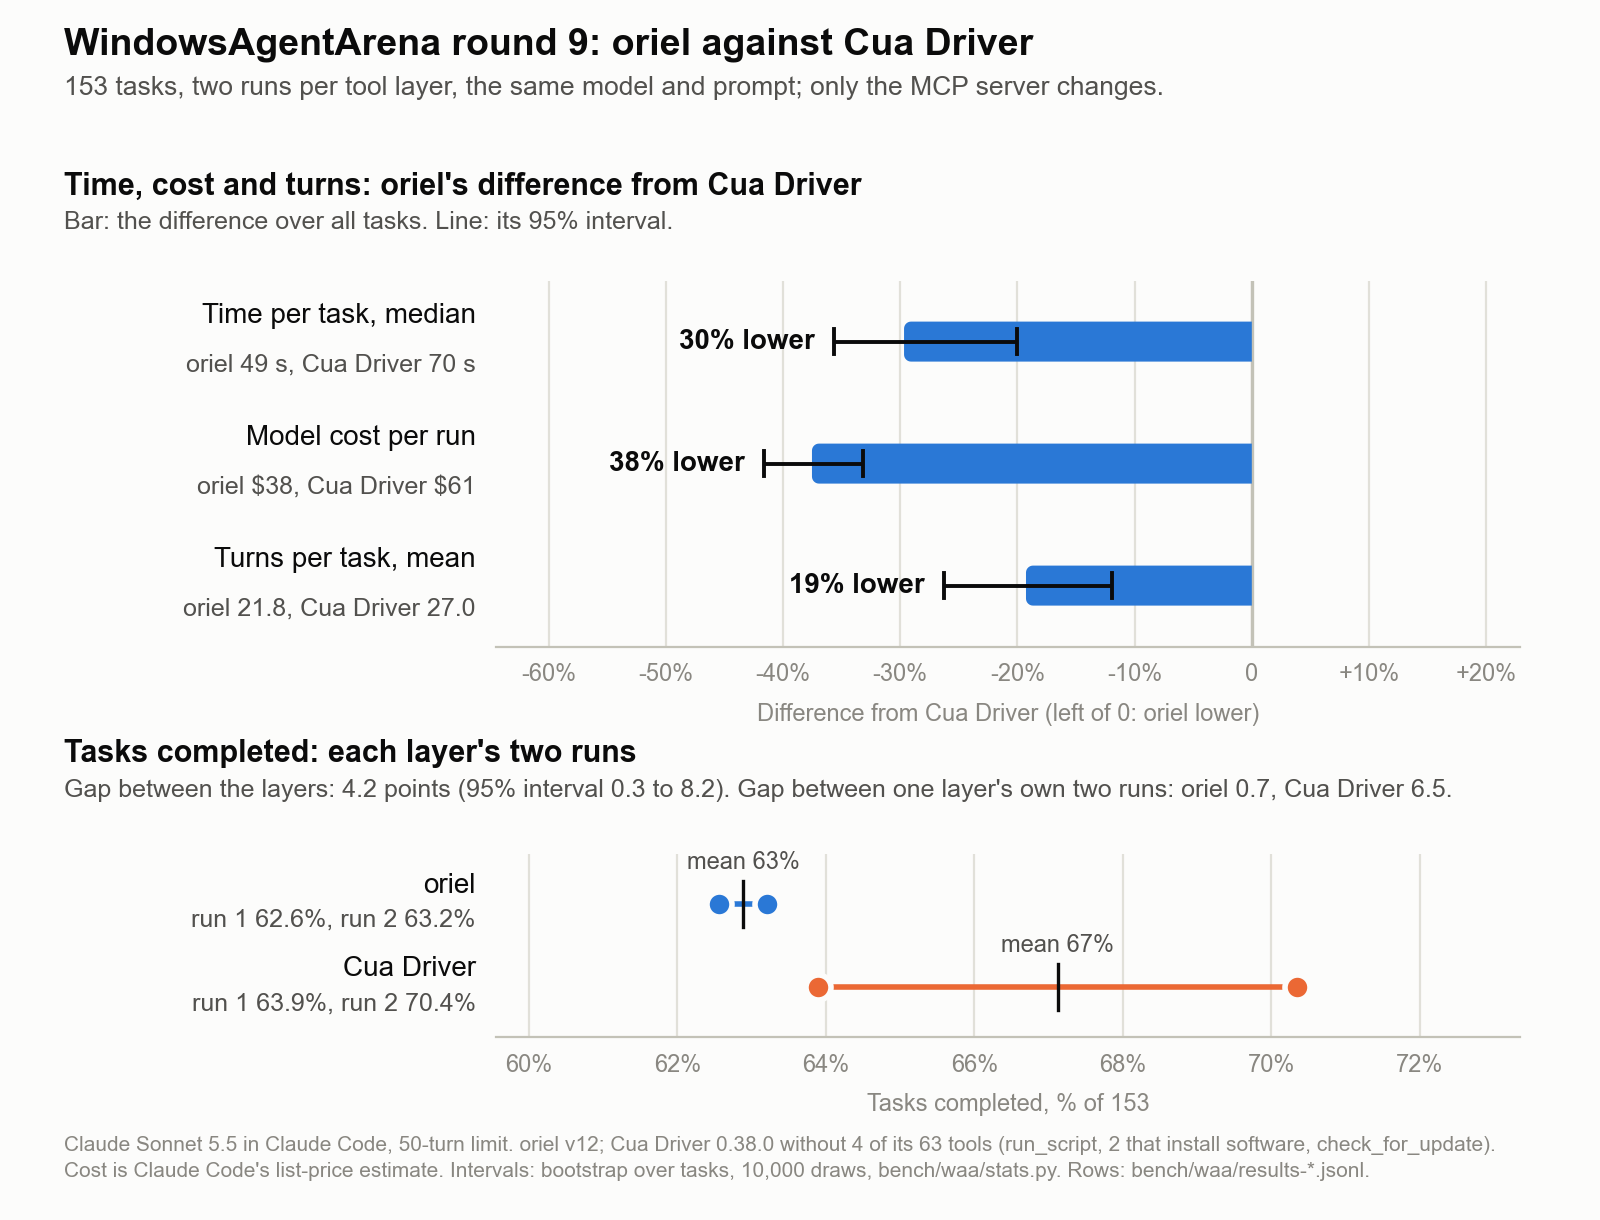
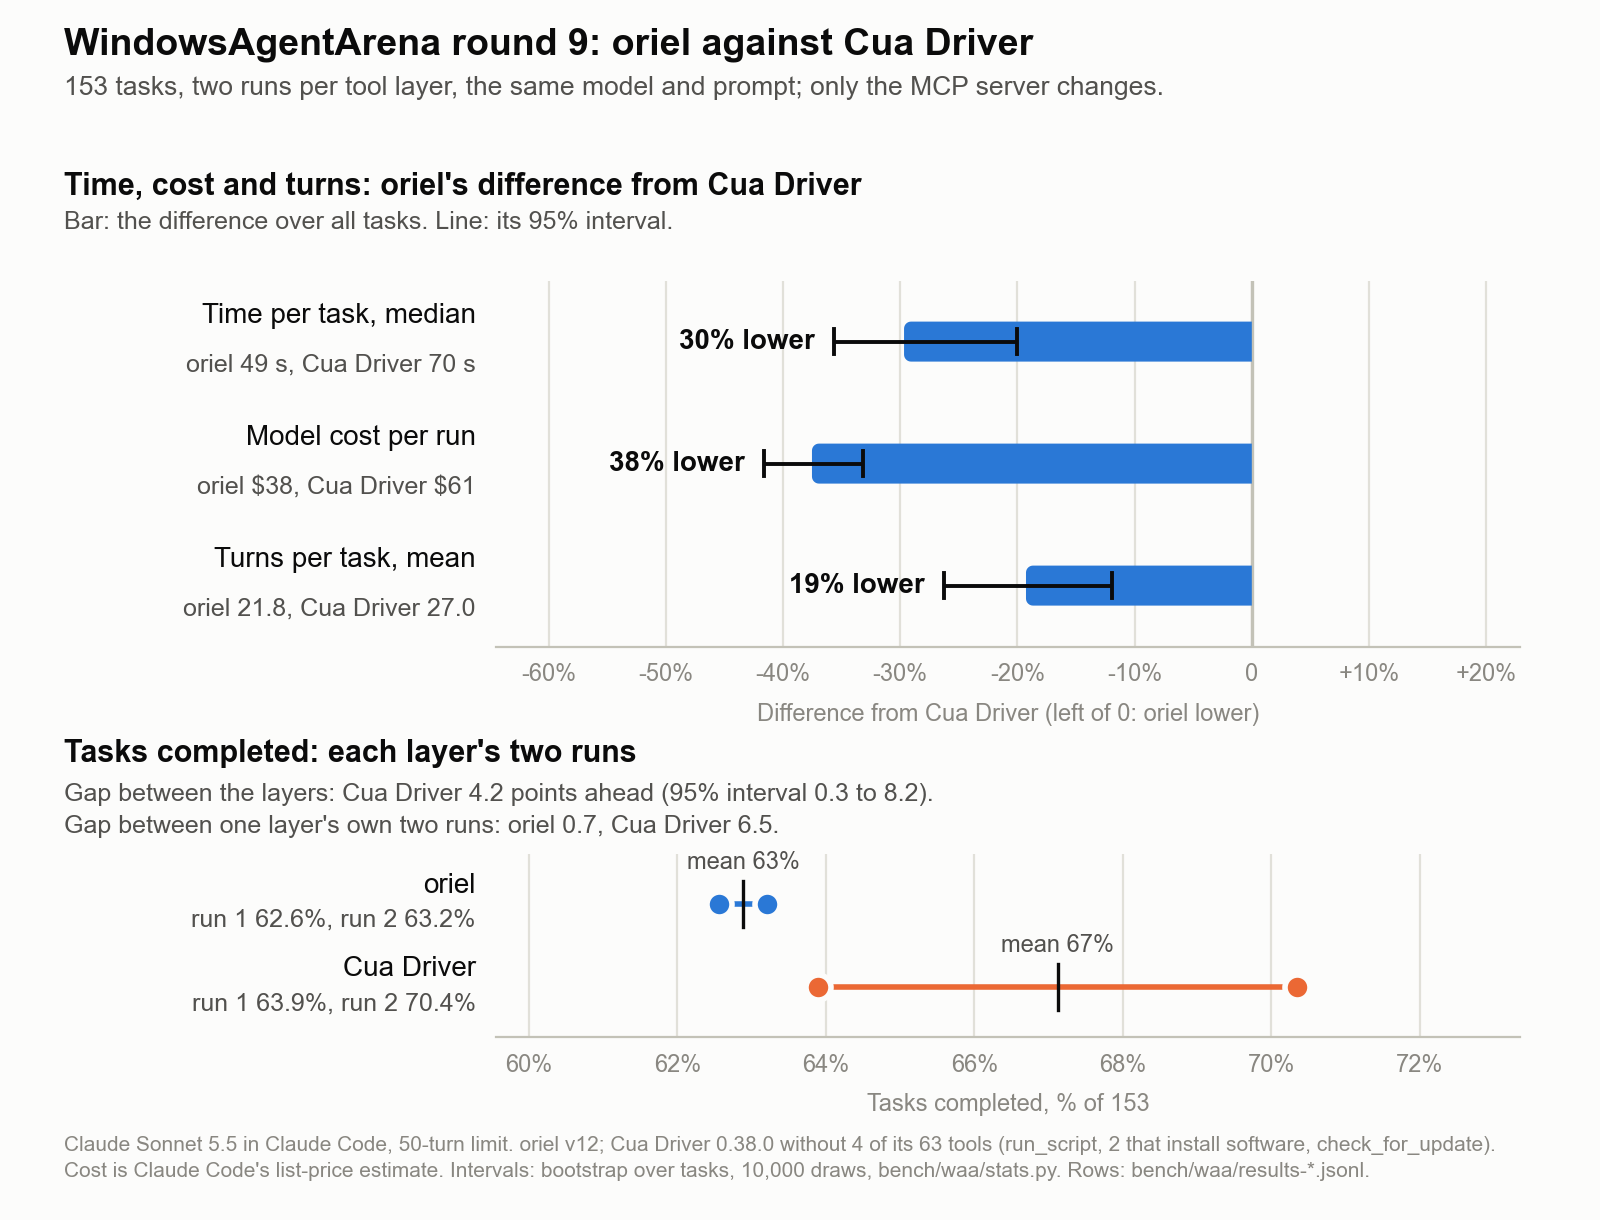
chart: say the completion gap from the leader's side with signed interval bounds, so an interval that contains 0 still shows it; caption on two lines

Changed region(s): [[0.0312, 0.623, 0.9062, 0.6852]]

diff --git a/bench/waa/chart.py b/bench/waa/chart.py
@@ -112,10 +112,12 @@ def main():
     layers = [("oriel", ORIEL, oriel_runs), ("Cua Driver", CUA, cua_runs)]
     gap, gap_lo, gap_hi = (pct(v) for v in everything["diff"]["completed"])
     fig.text(0.04, 0.375, "Tasks completed: each layer's two runs", fontsize=11, fontweight="bold")
-    fig.text(0.04, 0.347, f"Gap between the layers: {abs(gap):.1f} points (95% interval {min(abs(gap_lo), abs(gap_hi)):.1f} to "
-             f"{max(abs(gap_lo), abs(gap_hi)):.1f}). Gap between one layer's own two runs: oriel "
+    # Said from the leader's side; the bounds keep their signs, so an interval that contains 0 still shows it.
+    leader, lead, lead_lo, lead_hi = ("Cua Driver", -gap, -gap_hi, -gap_lo) if gap < 0 else ("oriel", gap, gap_lo, gap_hi)
+    fig.text(0.04, 0.358, f"Gap between the layers: {leader} {lead:.1f} points ahead (95% interval {lead_lo:.1f} to "
+             f"{lead_hi:.1f}).\nGap between one layer's own two runs: oriel "
              f"{abs(pct(oriel_runs['diff']['completed'][0])):.1f}, Cua Driver {abs(pct(cua_runs['diff']['completed'][0])):.1f}.",
-             fontsize=9, color=INK2)
+             fontsize=9, color=INK2, va="top", linespacing=1.5)
     values = [pct(r[k]["completed"]) for _, _, r in layers for k in ("cua", "oriel")]  # "cua" is run 1, "oriel" run 2
     bottom.set_xlim(min(values) - 3, max(values) + 3)
     bottom.set_ylim(1.6, -0.6)
